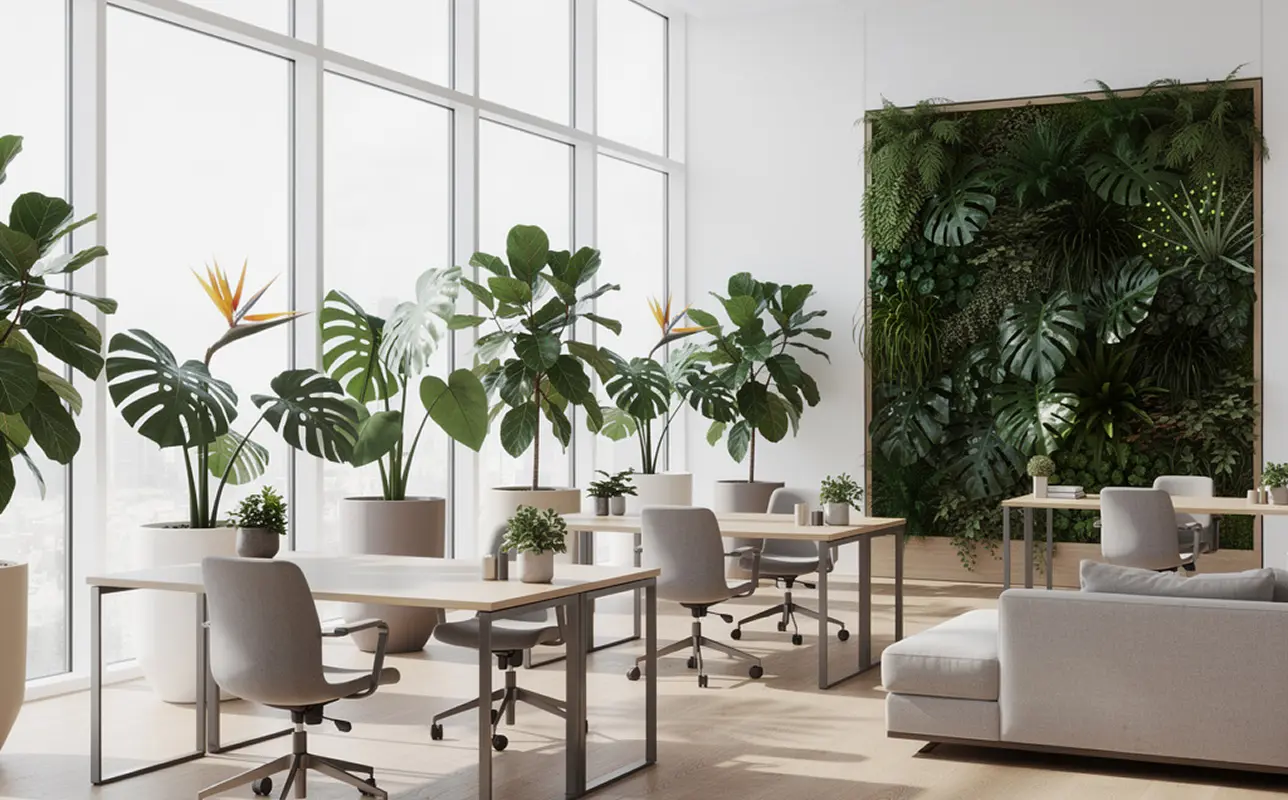
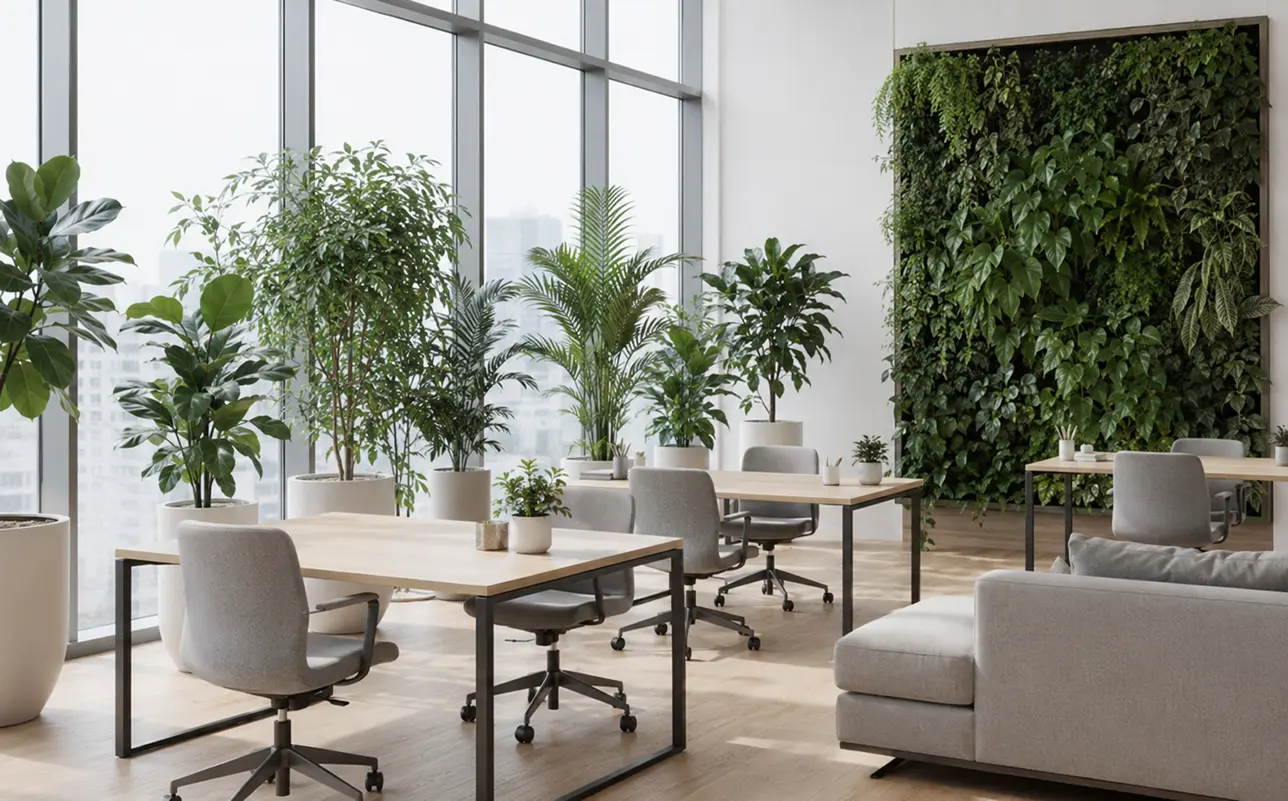
fixes

diff --git a/assets/css/product-row.css b/assets/css/product-row.css
@@ -1,120 +1,122 @@
-.products.in-row .product {
-  display: grid;
-  grid-template-columns: 31% 1fr 200px;
-  grid-template-rows: repeat(3, auto);
-  grid-template-areas: 
-  'image title price'
-  'image tags price'
-  'image attrs btns';
-  column-gap: 20px;
-  row-gap: 6px;
-  padding: 4px;
-}
+@media (min-width: 1280px) {
+  .products.in-row .product {
+    display: grid;
+    grid-template-columns: 31% 1fr 200px;
+    grid-template-rows: repeat(3, auto);
+    grid-template-areas: 
+    'image title price'
+    'image tags price'
+    'image attrs btns';
+    column-gap: 20px;
+    row-gap: 6px;
+    padding: 4px;
+  }
 
-.products.in-row .product__content-wrap {
-  display: contents;
-}
+  .products.in-row .product__content-wrap {
+    display: contents;
+  }
 
-/* в коризину */
-.products.in-row .product_type_simple {
-  --icon-gap: 12px;
-}
-.products.in-row .product__add-to-cart-wrap {
-  grid-template-columns: 1fr;
-  padding: 0px;
-  width: 100%;
-  padding-inline: 20px;
-  padding-bottom: 16px;
-}
+  /* в коризину */
+  .products.in-row .product_type_simple {
+    --icon-gap: 12px;
+  }
+  .products.in-row .product__add-to-cart-wrap {
+    grid-template-columns: 1fr;
+    padding: 0px;
+    width: 100%;
+    padding-inline: 20px;
+    padding-bottom: 16px;
+  }
 
-.products.in-row .add_to_cart_button, 
-.products.in-row .product_type_simple {
-  --btn-pad-inline: 25px;
-  font-size: 16px;
-  width: 100%;
+  .products.in-row .add_to_cart_button, 
+  .products.in-row .product_type_simple {
+    --btn-pad-inline: 25px;
+    font-size: 16px;
+    width: 100%;
 
-}
+  }
 
-/* цена */
+  /* цена */
 
-.products.in-row .product__price-wrap {
-  margin-top: 16px;
-  margin-inline: 20px;
-  position: relative;
-}
+  .products.in-row .product__price-wrap {
+    margin-top: 16px;
+    margin-inline: 20px;
+    position: relative;
+  }
 
-.products.in-row .product__price-wrap:has(del) {
-  margin-top: 16px;
-  display: grid;
-  grid-template-columns: auto 1fr;
-  row-gap: 4px;
-  column-gap: 8px;
-  grid-template-areas: 
-  'price price'
-  'oldprice badge';
-}
+  .products.in-row .product__price-wrap:has(del) {
+    margin-top: 16px;
+    display: grid;
+    grid-template-columns: auto 1fr;
+    row-gap: 4px;
+    column-gap: 8px;
+    grid-template-areas: 
+    'price price'
+    'oldprice badge';
+  }
 
-.products.in-row .product__price-wrap:has(del) .sale_badge {
-  grid-area: badge;
-  width: fit-content;
-}
+  .products.in-row .product__price-wrap:has(del) .sale_badge {
+    grid-area: badge;
+    width: fit-content;
+  }
 
-.products.in-row .product .price:has(del) {
-  display: contents;
-}
+  .products.in-row .product .price:has(del) {
+    display: contents;
+  }
 
-.products.in-row .product .price {
-  font-size: 26px;
-  font-weight: 500;
-}
+  .products.in-row .product .price {
+    font-size: 26px;
+    font-weight: 500;
+  }
 
-.products.in-row .product__content-wrap:after {
-  content: '';
-  position: absolute;
-  right: 200px;
-  height: 100%;
-  width: 1px;
-  background: #EBEDED;
-}
+  .products.in-row .product__content-wrap:after {
+    content: '';
+    position: absolute;
+    right: 200px;
+    height: 100%;
+    width: 1px;
+    background: #EBEDED;
+  }
 
-/* заголовок */
+  /* заголовок */
 
-.products.in-row .woocommerce-loop-product__title {
-  font-size: 22px;
-  font-weight: 500;
-  margin-top: 16px;
-}
+  .products.in-row .woocommerce-loop-product__title {
+    font-size: 22px;
+    font-weight: 500;
+    margin-top: 16px;
+  }
 
-/* product-card-attributes */
+  /* product-card-attributes */
 
-.catalog__product-attributes .product-card-attributes {
-  font-size: 14px;
-  display: grid;
-  gap: 12px;
-}
+  .catalog__product-attributes .product-card-attributes {
+    font-size: 14px;
+    display: grid;
+    gap: 12px;
+  }
 
-.catalog__product-attributes .product-card-attributes li {
-  display: grid;
-  grid-template-columns: auto 1fr auto;
-  gap: 4px;
-}
+  .catalog__product-attributes .product-card-attributes li {
+    display: grid;
+    grid-template-columns: auto 1fr auto;
+    gap: 4px;
+  }
 
-.product-card-attributes__name {
-  color: var(--gray-l-color);
-}
+  .product-card-attributes__name {
+    color: var(--gray-l-color);
+  }
 
-.catalog__product-attributes .product-card-attributes__line {
-  border-bottom: 1px dashed #EBEDED;
-}
-.catalog__product-attributes .product-card-attributes__value {
-  text-align: end;
-}
+  .catalog__product-attributes .product-card-attributes__line {
+    border-bottom: 1px dashed #EBEDED;
+  }
+  .catalog__product-attributes .product-card-attributes__value {
+    text-align: end;
+  }
 
-/* wish */
+  /* wish */
 
-.products.in-row .yith-wcwl-add-to-wishlist {
-  width: fit-content;
-  left: 31% !important;
-  right: auto;
-  transform: translate(calc(-100% - 8px), 0);
+  .products.in-row .yith-wcwl-add-to-wishlist {
+    width: fit-content;
+    left: 31% !important;
+    right: auto;
+    transform: translate(calc(-100% - 8px), 0);
+  }
 }

diff --git a/assets/css/product.css b/assets/css/product.css
@@ -335,10 +335,12 @@
   display: none;
 }
 
-.in-row .catalog__product-attributes {
-  display: block;
-  grid-area: attrs;
-  align-self: flex-end;
-  margin-top: 20px;
-  margin-bottom: 16px;
+@media (min-width: 1280px) {
+  .in-row .catalog__product-attributes {
+    display: block;
+    grid-area: attrs;
+    align-self: flex-end;
+    margin-top: 20px;
+    margin-bottom: 16px;
+  }
 }